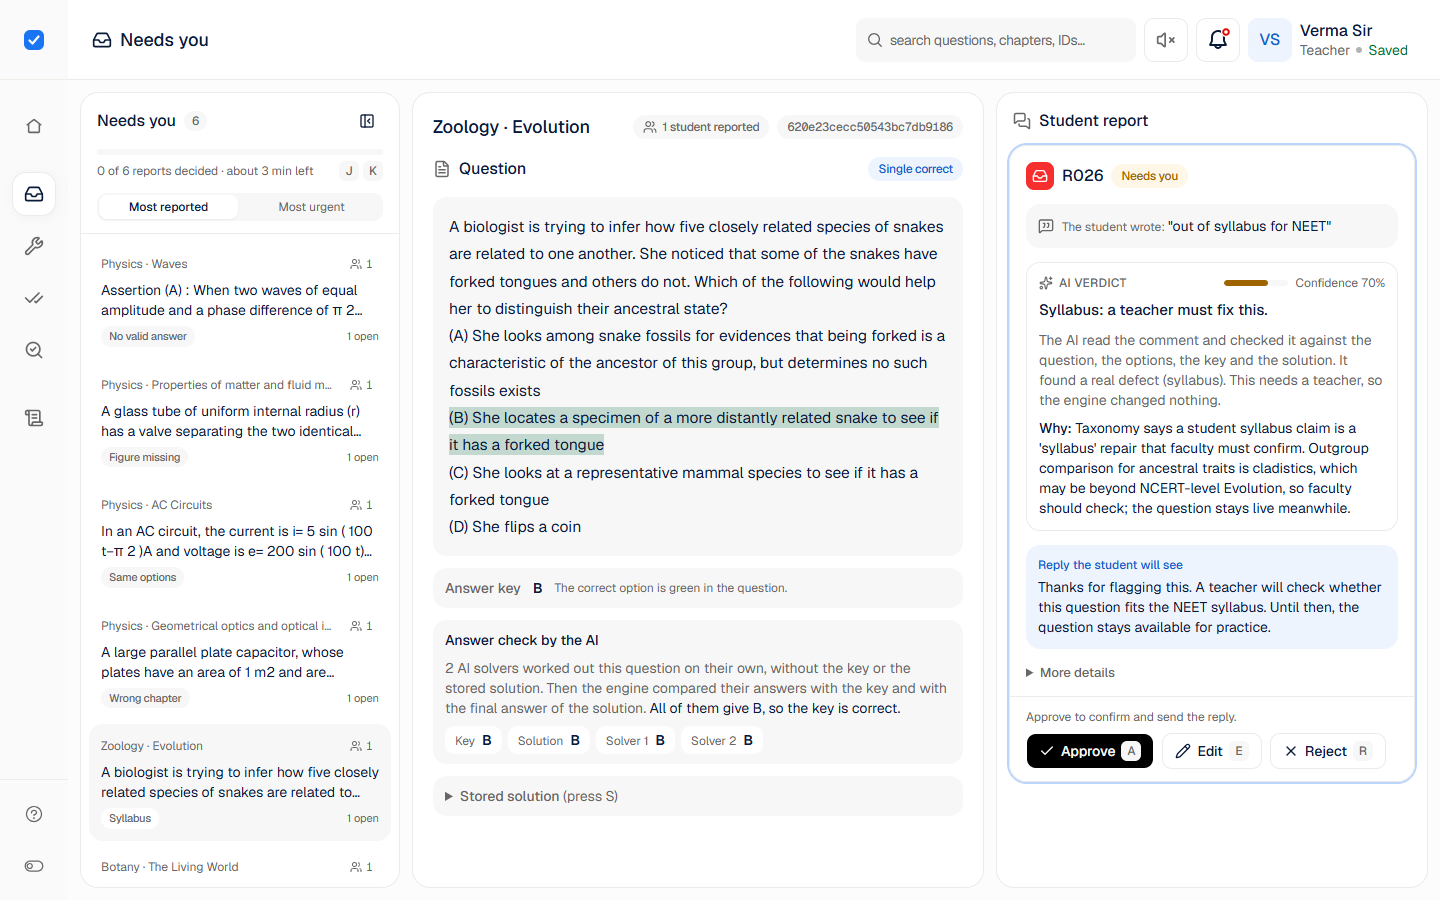
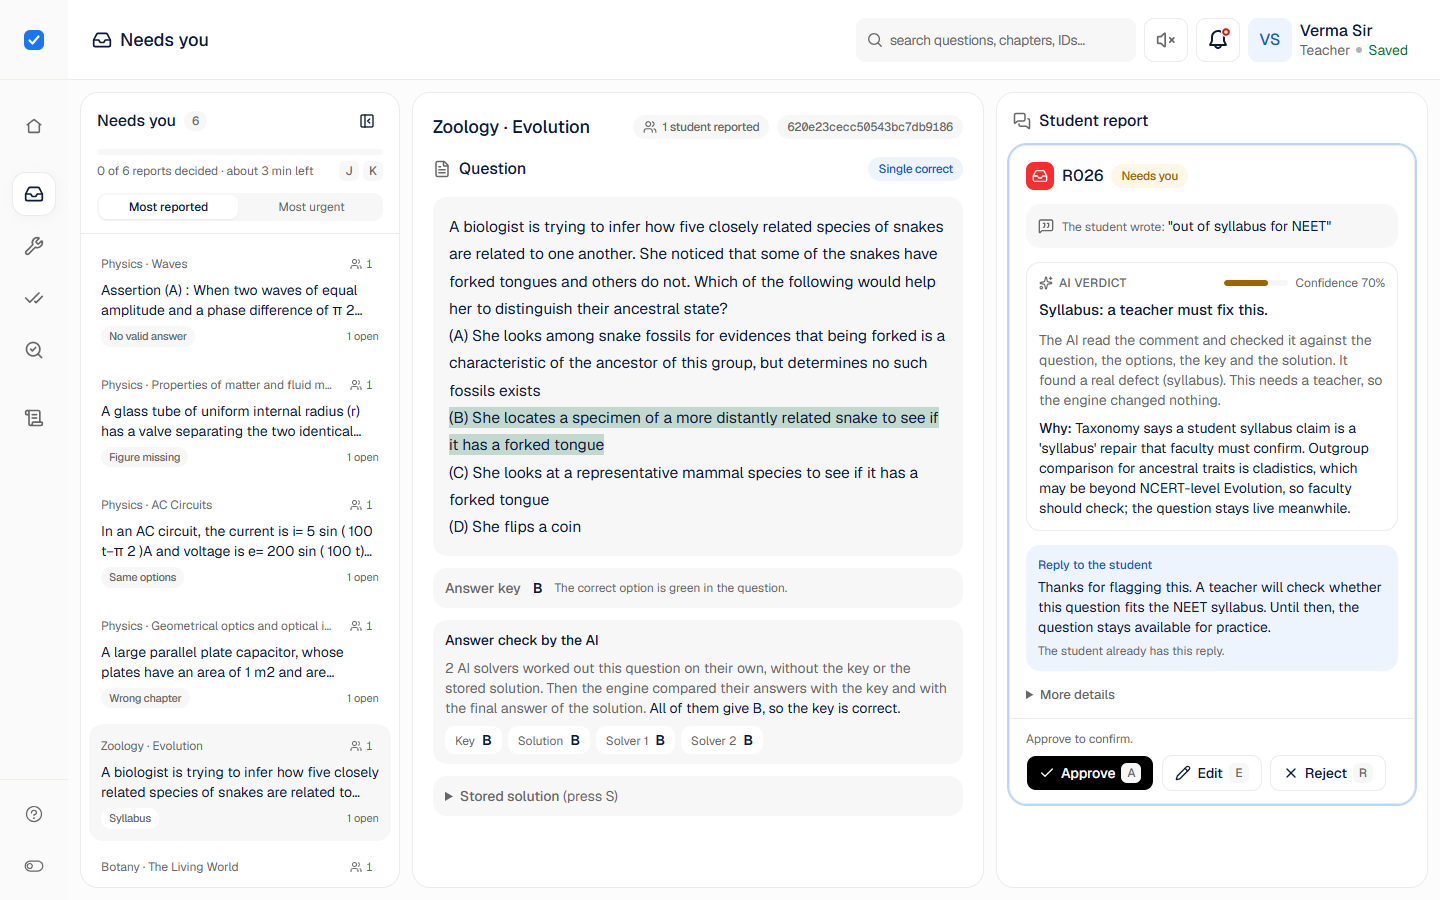
docs: add the demo video and refresh the README screenshots

Changed region(s): [[0.6875, 0.7156, 0.9688, 0.9022], [0.75, 0.6222, 0.8125, 0.6533]]

diff --git a/README.md b/README.md
@@ -4,7 +4,7 @@ Students report errors in JEE and NEET questions. Report Fix checks each report 
 
 ![The teacher console: the queue on the left, the question in the middle, the student reports on the right](docs/images/console-review.png)
 
-**Links:** [Live console](https://acadza-report-fix-90b2.onrender.com) · Demo video: _the link will be added_ · [Prompts and decisions](PROMPTS.md) · [Product notes](PRODUCT.md) · [Original task](docs/BRIEF.md)
+**Links:** [Live console](https://acadza-report-fix-90b2.onrender.com) · [Demo video (3 min)](https://www.loom.com/share/d273c94018d8467495336a260f4e5625) · [Prompts and decisions](PROMPTS.md) · [Product notes](PRODUCT.md) · [Original task](docs/BRIEF.md)
 
 ## Contents
 
@@ -77,7 +77,7 @@ An **unsafe auto-fix** is a fix that goes live without a teacher when it must no
 The console is for a tired teacher at the end of a long day. It has 3 panels, so the teacher does not scroll back and forth:
 
 - **Left: the queue.** Each row is one question and shows how many students reported it. Sort by "Most reported" or "Most urgent". Urgency combines the harm, the number of reports and how unsure the engine is.
-- **Middle: the question.** The question, its key and its solution. The correct option is green. A change shows as "Before → After". The "Answer check" shows what the 2 AI solvers got.
+- **Middle: the question.** The question, its key and its solution. The correct option is green. If the engine doubts the key, no option is green. A change shows as "Before → After". The "Answer check" shows what the 2 AI solvers got.
 - **Right: the reports.** Each report shows:
   - the student comment
   - the **AI verdict** and its confidence
@@ -90,7 +90,7 @@ The console is for a tired teacher at the end of a long day. It has 3 panels, so
 
 More features:
 
-- **Keys.** A approves, E edits, R rejects and U undoes. J and K move between questions. S shows the solution. ? shows all keys. The next question opens by itself.
+- **Keys.** A approves, E edits, R rejects and U undoes. J and K move between questions. S shows the solution. Ctrl+K searches. ? shows all keys. The next question opens by itself.
 - **Bulk confirm.** "Keep all fixes" or "Agree with all" confirms a full queue. "Undo all" reverses it.
 - **Fast saves.** A decision shows at once and saves in the background. If the save fails, the screen goes back and shows an error.
 - **Safe edits.** The teacher can edit any field. A format problem shows a warning, and the teacher can still save. The server refuses only an edit that it cannot apply, and the message tells how to correct it.
@@ -107,7 +107,7 @@ More features:
 - A student comment is data. The AI never follows an instruction in it.
 - A repair with `auto: false` in the taxonomy always goes to a teacher.
 - A fix can change only the fields that its repair permits.
-- A key changes only when both solvers and the stored solution agree against it.
+- A key changes to a different answer only when both solvers and the stored solution agree against it.
 - Each repair has its own rule in code. For example, a spelling fix must not change a number.
 - If a check fails, the case goes to a teacher.
 
@@ -120,7 +120,7 @@ More features:
 
 ## Quick start
 
-You need Python 3.12 and Node.js 20.19 or newer. The commands are for Windows. On macOS or Linux, use `.venv/bin/` in place of `.venv/Scripts/`.
+You need Python 3.12 and Node.js 20.19 or newer. The commands are for Git Bash on Windows. On macOS or Linux, use `.venv/bin/` in place of `.venv/Scripts/`.
 
 ### 1. Install
 
@@ -173,7 +173,7 @@ Open http://localhost:5173. The frontend sends its API calls to port 8000.
 
 ## Deploy
 
-The live console runs at https://acadza-report-fix-90b2.onrender.com.
+The live console runs at [acadza-report-fix-90b2.onrender.com](https://acadza-report-fix-90b2.onrender.com).
 
 The Render Blueprint (`render.yaml`) makes one free web service in Singapore. This is near the teachers in India and the database in Sydney.
 
@@ -217,7 +217,7 @@ results.json           the scored output, one entry for each report
 cases.json             the evidence, for the console
 cost.json              AI calls, tokens and cost
 PROMPTS.md             the prompts, AI mistakes and design decisions
-PRODUCT.md             who loses most, what never auto-applies, the week-1 metric
+PRODUCT.md             who loses most, what never auto-applies, the week-1 metric, one idea
 render.yaml            the Render deploy settings
 ```
 

diff --git a/PRODUCT.md b/PRODUCT.md
@@ -14,7 +14,7 @@ How the design shows this:
 
 ## What I would never let the AI auto-apply
 
-1. **A key change without proof.** One AI solve is not enough. A wrong "fix" breaks a correct question for everyone. The key changes only when 3 answers agree: two independent solvers and the stored solution.
+1. **A key change without proof.** One AI solve is not enough. A wrong "fix" breaks a correct question for everyone. The key changes to a different answer only when 3 answers agree: two independent solvers and the stored solution.
 2. **New content.** New options, a new figure, a new question, or a move to a different chapter. These need a teacher's judgement. The AI suggests, and the teacher decides.
 3. **A fix that does more than its label says.** For example, a spelling fix that changes a number. A code rule for each repair stops it.
 4. **A change based only on a student comment.** A comment is a lead, never an instruction. In R027, a comment tells the AI to change the key. Nothing changes.
